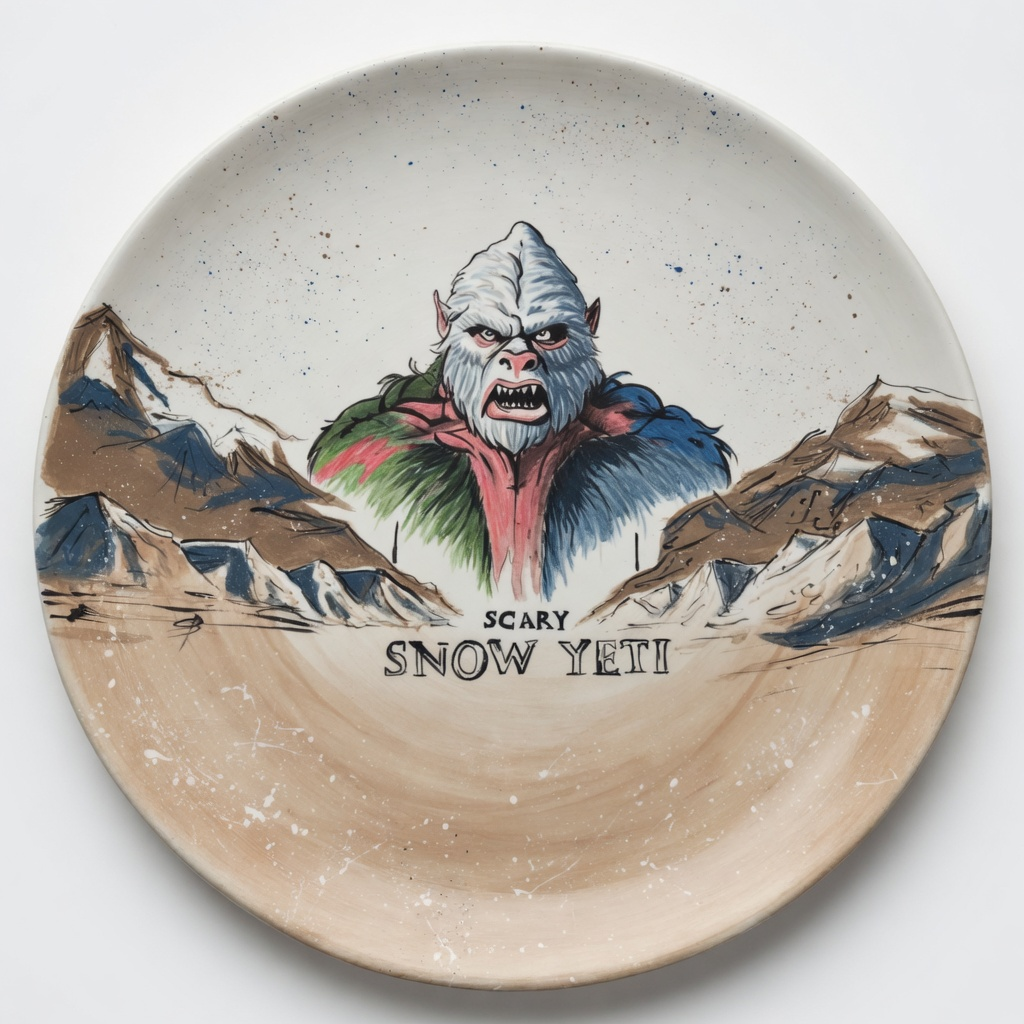
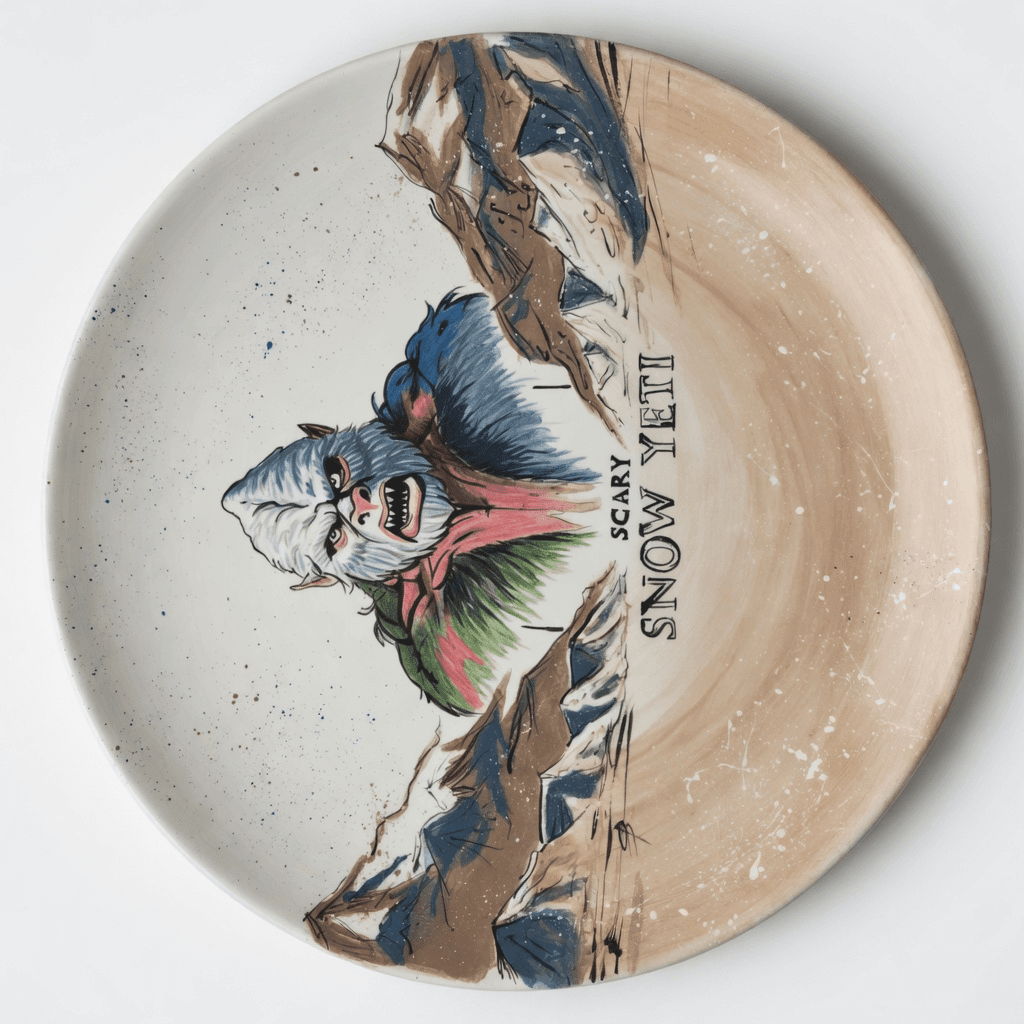
Header: rimette Instagram/TikTok nel menu con solo icona+handle (testo via per ottimizzare lo spazio, niente piu' overflow); fix orientamento foto piatti: sharp ora chiama .rotate() per leggere l'EXIF e ruotare i pixel prima di togliere i metadati, evitando foto coricate. Ruotate manualmente le 7 1.

diff --git a/src/components/Header.jsx b/src/components/Header.jsx
@@ -1,5 +1,5 @@
 import { useEffect, useState } from "react";
-import { Close, Menu, ShoppingBag } from "./icons.jsx";
+import { Close, Menu, Instagram, TikTok, ShoppingBag } from "./icons.jsx";
 import { site } from "../data/site.js";
 import { useT, useLang } from "../i18n/index.jsx";
 
@@ -115,6 +115,34 @@ export function Header({ onOpenInfo }) {
                 {t.ui.etsyShop}
               </span>
               <span className="text-[10px] uppercase tracking-[0.18em] text-stone-500">{t.ui.buyBadge}</span>
+            </a>
+
+            <a
+              href={site.social.instagram.url}
+              target="_blank"
+              rel="noopener noreferrer"
+              role="menuitem"
+              aria-label={`Instagram ${site.social.instagram.handle}`}
+              className="flex w-full items-center justify-between border-t border-stone-950/10 px-4 py-3 text-sm transition hover:bg-stone-950/5"
+            >
+              <Instagram size={15} />
+              <span className="text-[10px] uppercase tracking-[0.18em] text-stone-500">
+                {site.social.instagram.handle}
+              </span>
+            </a>
+
+            <a
+              href={site.social.tiktok.url}
+              target="_blank"
+              rel="noopener noreferrer"
+              role="menuitem"
+              aria-label={`TikTok ${site.social.tiktok.handle}`}
+              className="flex w-full items-center justify-between border-t border-stone-950/10 px-4 py-3 text-sm transition hover:bg-stone-950/5"
+            >
+              <TikTok size={15} />
+              <span className="text-[10px] uppercase tracking-[0.18em] text-stone-500">
+                {site.social.tiktok.handle}
+              </span>
             </a>
 
             <a

diff --git a/scripts/optimize-images.js b/scripts/optimize-images.js
@@ -81,7 +81,11 @@ async function optimize(file, manifest) {
   const buf = await fs.readFile(file);
   const ext = path.extname(file).toLowerCase();
 
-  let pipeline = sharp(buf, { failOn: "none" });
+  // .rotate() (senza argomenti) applica la rotazione indicata dall'EXIF e
+  // poi rimuove il tag: indispensabile per foto di smartphone, altrimenti
+  // sharp strip-pa l'EXIF SENZA ruotare i pixel e l'immagine finisce
+  // coricata (vedi commit cronologia).
+  let pipeline = sharp(buf, { failOn: "none" }).rotate();
   const meta = await pipeline.metadata();
   const longest = Math.max(meta.width || 0, meta.height || 0);
   const maxDim = maxDimFor(file);
